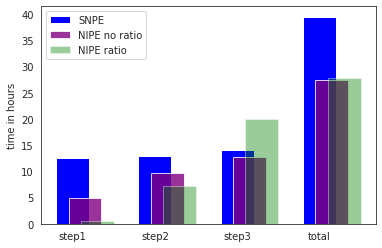
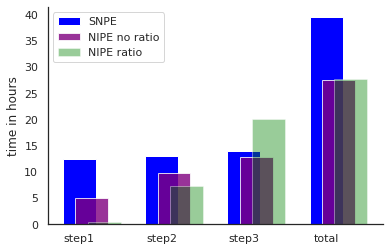
stochasticity issue with supra and threshold

Changed region(s): [[0.0, 0.0, 1.0, 0.9879]]

diff --git a/code/sequential_inference_17params.py b/code/sequential_inference_17params.py
@@ -170,12 +170,20 @@ def main(argv):
         print(os.getcwd())
         trace = pd.read_csv('data/ERPYes3Trials/dpl.txt', sep='\t', header=None, dtype= np.float32)
         obs_real = torch.tensor(trace.values, dtype = torch.float32)[:,1]
+        print(obs_real.shape[0])
+        plt.plot(obs_real)
+        noise = np.random.normal(0, 1, obs_real.shape[0])
+        obs_real += noise
+        plt.plot(obs_real)
+        plt.savefig('obs_real_noise')
 
     if observation == 'threshold':
         os.chdir('..')
         print(os.getcwd())
         trace = pd.read_csv('data/default/dpl.txt', sep='\t', header=None, dtype= np.float32)
         obs_real = torch.tensor(trace.values, dtype = torch.float32)[:,1]
+        noise = np.random.normal(0, 1, obs_real.shape[0])
+        obs_real += noise
 
 
     obs_real_stat = calculate_summary_stats_temporal(obs_real)
@@ -221,7 +229,6 @@ def main(argv):
         file_writer.save_obs_without(x_without, name='step1')
         file_writer.save_thetas(theta, name='step1')
 
-    start_time = datetime.datetime.now()
 
     os.chdir('..')
     os.chdir('..')
@@ -260,6 +267,16 @@ def main(argv):
 
     inf = SNPE_C(combined_prior, density_estimator=density_estimator)
 
+    inf_time1 = datetime.datetime.now()
+
+    json_dict = {
+    "inference time for last step:": str(inf_time1-finish_time)}
+    with open( "inference_time.json", "a") as f:
+        json.dump(json_dict, f)
+        f.close()
+
+    start_time = datetime.datetime.now()
+
 
     try:
         theta = torch.load('step2/thetas.pt')
@@ -275,11 +292,23 @@ def main(argv):
         file_writer.save_obs_without(x_without, name='step2')
         file_writer.save_thetas(theta, name='step2')
 
+    finish_time = datetime.datetime.now()
 
+    diff_time = finish_time - start_time
+
+
+
+    step_time_str = get_time()
+    json_dict = {
+    "start time:": start_time_str,
+    "round 1 time": step_time_str,
+    "CPU time for step:": str(diff_time)}
+    with open( "step2/meta.json", "a") as f:
+        json.dump(json_dict, f)
+        f.close()
 
     print("second round completed")
 
-    start_time = datetime.datetime.now()
 
     print(x_without.shape)
     x_without = x_without[:,:4200]
@@ -299,20 +328,6 @@ def main(argv):
     print('sample from proposal', proposal2.sample((1,)))
 
 
-    finish_time = datetime.datetime.now()
-
-    diff_time = finish_time - start_time
-
-
-
-    step_time_str = get_time()
-    json_dict = {
-    "start time:": start_time_str,
-    "round 1 time": step_time_str,
-    "CPU time for step:": str(diff_time)}
-    with open( "step2/meta.json", "a") as f:
-        json.dump(json_dict, f)
-        f.close()
 
     ###### continuing with P200 parameters/summary stats:
 
@@ -323,6 +338,17 @@ def main(argv):
     combined_prior = Combined(proposal2, prior3, number_params_1=12)
 
     inf = SNPE_C(combined_prior, density_estimator=density_estimator)
+
+    inf_time2 = datetime.datetime.now()
+
+    json_dict = {
+    "inference time for last step:": str(inf_time2-finish_time)}
+    with open( "inference_time.json", "a") as f:
+        json.dump(json_dict, f)
+        f.close()
+
+
+    start_time = datetime.datetime.now()
 
     try:
         theta = torch.load('step3/thetas.pt')
@@ -340,20 +366,6 @@ def main(argv):
         file_writer.save_obs_without(x_without, name='step3')
         file_writer.save_thetas(theta, name='step3')
 
-
-
-    x = calculate_summary_stats_temporal(x_without)
-
-    print('x shape', x.shape)
-
-    inf = inf.append_simulations(theta, x)
-    neural_dens = inf.train()
-
-    posterior = inf.build_posterior(neural_dens)
-
-
-    posterior.set_default_x(obs_real_stat)
-
     finish_time = datetime.datetime.now()
 
     diff_time = finish_time - start_time
@@ -368,6 +380,29 @@ def main(argv):
     with open( "step3/meta.json", "a") as f:
         json.dump(json_dict, f)
         f.close()
+
+
+
+    x = calculate_summary_stats_temporal(x_without)
+
+    print('x shape', x.shape)
+
+    inf = inf.append_simulations(theta, x)
+    neural_dens = inf.train()
+
+    posterior = inf.build_posterior(neural_dens)
+
+
+    posterior.set_default_x(obs_real_stat)
+
+    end_time = datetime.datetime.now()
+
+    json_dict = {
+    "inference time for last step:": str(end_time-finish_time)}
+    with open( "inference_time.json", "a") as f:
+        json.dump(json_dict, f)
+        f.close()
+
    
 
     file_writer.save_posterior(posterior)

diff --git a/code/utils/simulation_wrapper.py b/code/utils/simulation_wrapper.py
@@ -6,6 +6,18 @@ import torch
 import numpy as np
 
 
+from random import randrange
+
+
+def event_seed():
+    """
+    description: makes sure that one does not take the same random seed for each simulation as it would be the default in the hnn core code;
+    permalink to the hnn code location: https://github.com/jonescompneurolab/hnn-core/blob/0406ed1a2b2335b786e83eb1698f27a5c3dcdadc/hnn_core/drives.py#L262
+    """
+    seed = randrange(2000)
+    return seed
+
+
 class SimulationWrapper:
     """
     Class in order to select and call a simulation wrapper according to:
@@ -192,6 +204,7 @@ def set_network_default(params=None):
         mu=63.53,
         sigma=3.85,
         numspikes=1,
+        event_seed= event_seed(),
         weights_ampa=weights_ampa_d1,
         weights_nmda=weights_nmda_d1,
         location="distal",
@@ -457,6 +470,7 @@ def set_proximal1(net, weights_ampa_p1, weights_nmda_p1, synaptic_delays_prox, m
     mu=mu,
     sigma=3.68,
     numspikes=1,
+    event_seed = event_seed(),
     weights_ampa=weights_ampa_p1,
     weights_nmda=weights_nmda_p1,
     location="proximal",
@@ -469,6 +483,7 @@ def set_distal(net, weights_ampa_d1, weights_nmda_d1, synaptic_delays_d1, mu=63.
     mu=mu,
     sigma=3.85,
     numspikes=1,
+    event_seed = event_seed(),
     weights_ampa=weights_ampa_d1,
     weights_nmda=weights_nmda_d1,
     location="distal",
@@ -481,6 +496,7 @@ def set_proximal2(net, weights_ampa_p2, weights_nmda_p2, synaptic_delays_p2, mu=
     mu=mu,
     sigma=10.3,
     numspikes=1,
+    event_seed = event_seed(),
     weights_ampa=weights_ampa_p2,
     weights_nmda = weights_nmda_p2,
     location="proximal",
@@ -532,6 +548,7 @@ def set_network_weights(params=None):
         mu=params[5],
         sigma=2.47,
         numspikes=1,
+        event_seed = event_seed(),
         weights_ampa=weights_ampa_p1,
         weights_nmda=weights_nmda_p1,
         location="proximal",
@@ -560,6 +577,7 @@ def set_network_weights(params=None):
         "evdist1",
         mu=params[11],
         sigma=3.85,
+        event_seed = event_seed(),
         numspikes=1,
         weights_ampa=weights_ampa_d1,
         weights_nmda=weights_nmda_d1,
@@ -601,6 +619,7 @@ def set_network_weights(params=None):
         numspikes=1,
         weights_ampa=weights_ampa_p2,
         weights_nmda = weights_nmda_p2,
+        event_seed = event_seed(),
         location="proximal",
         synaptic_delays=synaptic_delays_prox2,
     )
